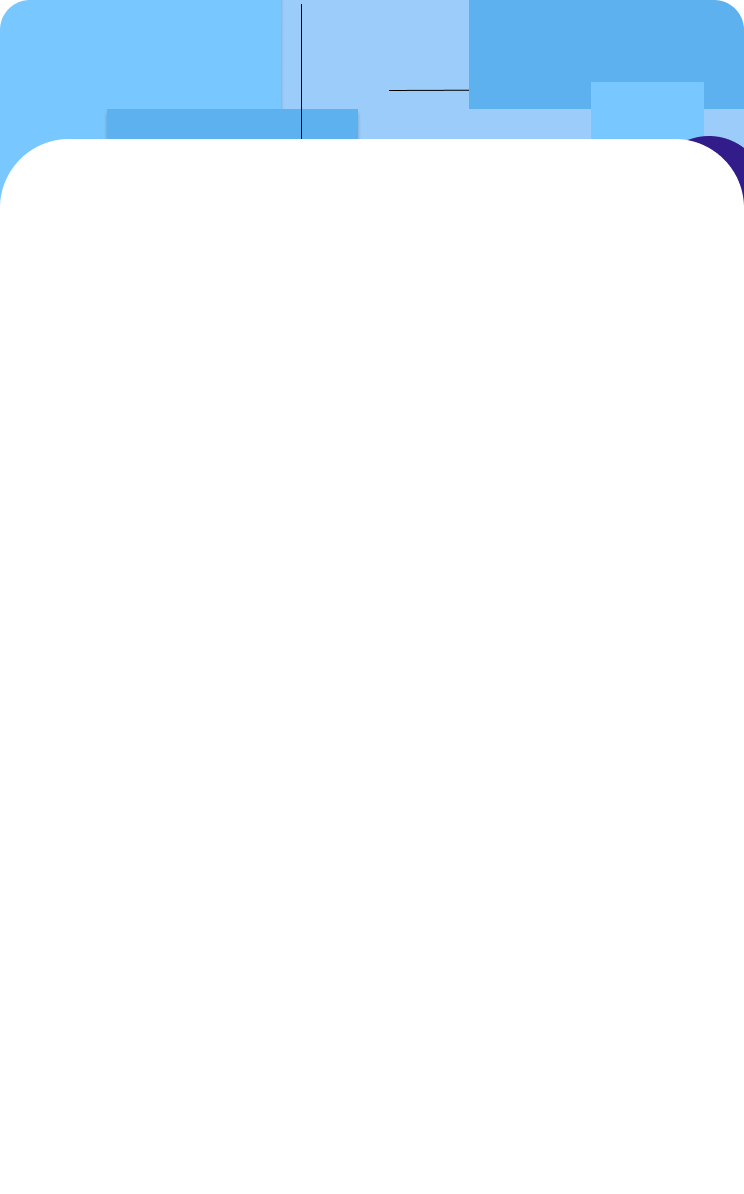
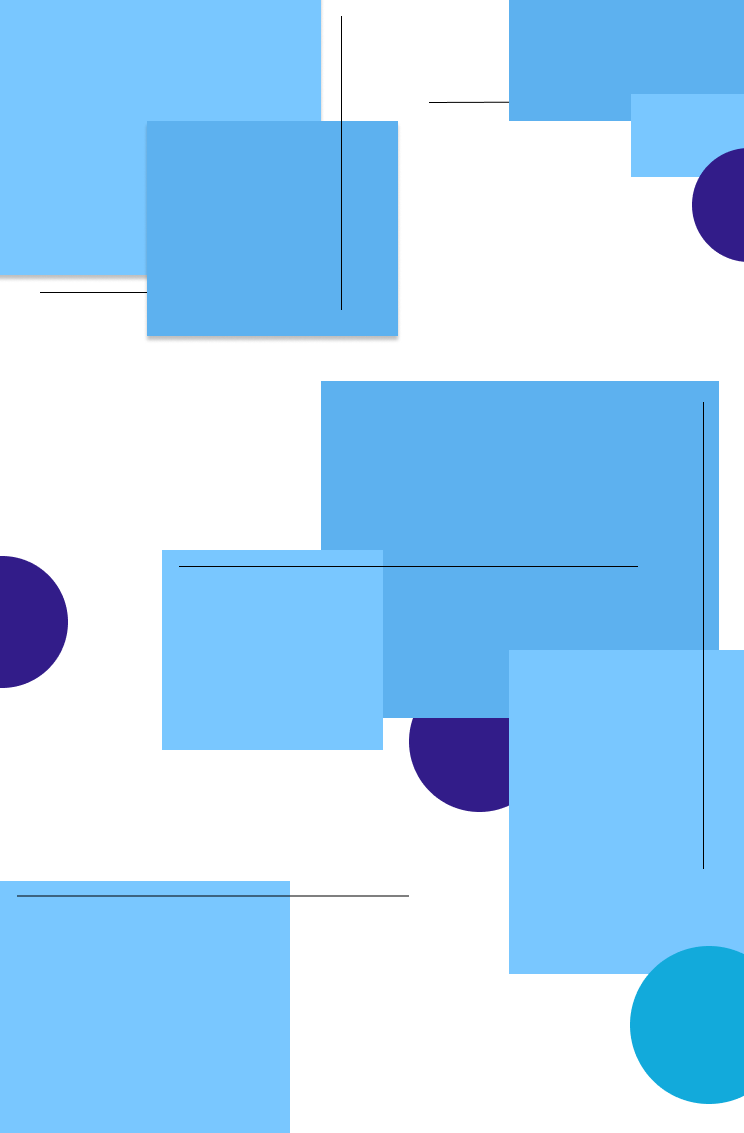
correção de problemas

diff --git a/projeto-integrador-es/telasproj/css/oi.css b/projeto-integrador-es/telasproj/css/oi.css
@@ -4,7 +4,7 @@ body {
   font-family:Source Sans Pro, sans-serif;
   margin-bottom:12.5%;
   background-color: #9BCCFA;
-  background-image: url("C:/Users/gabri/telasproj/images/fundoesquisito.png");
+  background-image: url("C:/Users/gabri/go/src/github.com/GGabrielRodrigues/ip-2024-01/projeto-integrador-es/telasproj/images/fundo.png");
  background-repeat: repeat;
 }
   .textos {
